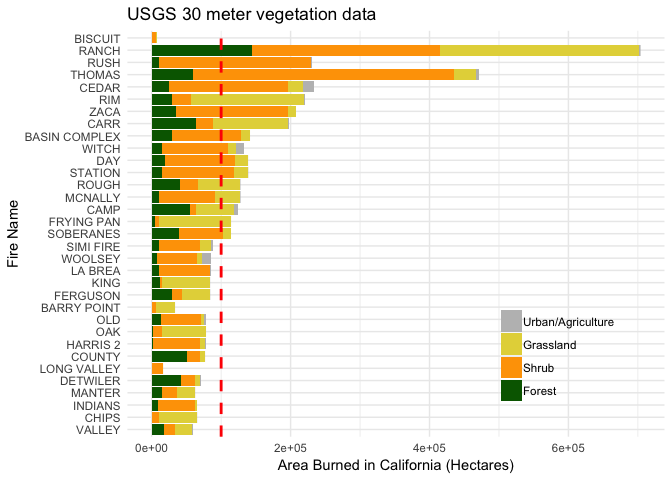
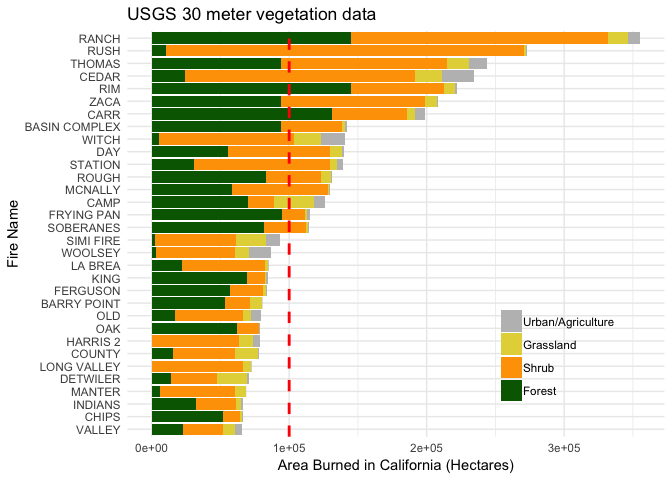
knit changes to legend and font color

diff --git a/analyses/land-cover.md b/analyses/land-cover.md
@@ -20,12 +20,14 @@ library(tidyverse)
 
     ## Warning: package 'tidyverse' was built under R version 3.4.2
 
-    ## ── Attaching packages ─────────────────────────────────────── tidyverse 1.2.1 ──
+    ## ── Attaching packages ────────────────────────────────────────────────────────────────────────────────────────────────────────────────────── tidyverse 1.2.1 ──
 
-    ## ✔ ggplot2 3.1.0.9000     ✔ purrr   0.2.5     
-    ## ✔ tibble  1.4.2          ✔ dplyr   0.7.8     
-    ## ✔ tidyr   0.8.1          ✔ stringr 1.3.1     
-    ## ✔ readr   1.1.1          ✔ forcats 0.2.0
+    ## ✔ ggplot2 3.1.0     ✔ purrr   0.2.5
+    ## ✔ tibble  1.4.2     ✔ dplyr   0.7.8
+    ## ✔ tidyr   0.8.1     ✔ stringr 1.3.1
+    ## ✔ readr   1.1.1     ✔ forcats 0.2.0
+
+    ## Warning: package 'ggplot2' was built under R version 3.4.4
 
     ## Warning: package 'tibble' was built under R version 3.4.3
 
@@ -37,7 +39,7 @@ library(tidyverse)
 
     ## Warning: package 'stringr' was built under R version 3.4.4
 
-    ## ── Conflicts ────────────────────────────────────────── tidyverse_conflicts() ──
+    ## ── Conflicts ───────────────────────────────────────────────────────────────────────────────────────────────────────────────────────── tidyverse_conflicts() ──
     ## ✖ dplyr::filter() masks stats::filter()
     ## ✖ dplyr::lag()    masks stats::lag()
 
@@ -94,7 +96,7 @@ land_fire<- fh %>%
 land_fire
 ```
 
-![](land-cover_files/figure-markdown_github/unnamed-chunk-3-1.png)
+![](land-cover_files/figure-markdown_github-ascii_identifiers/unnamed-chunk-3-1.png)
 
 ``` r
 catagory_fire<- fh %>%
@@ -111,7 +113,7 @@ catagory_fire<- fh %>%
 catagory_fire
 ```
 
-![](land-cover_files/figure-markdown_github/unnamed-chunk-3-2.png)
+![](land-cover_files/figure-markdown_github-ascii_identifiers/unnamed-chunk-3-2.png)
 
 ``` r
 fire_perc<- fh %>%  
@@ -221,7 +223,7 @@ usgs_landcover_fire<- fh %>%
 usgs_landcover_fire
 ```
 
-![](land-cover_files/figure-markdown_github/unnamed-chunk-5-1.png)
+![](land-cover_files/figure-markdown_github-ascii_identifiers/unnamed-chunk-5-1.png)
 
 ``` r
 catagory_fire<- fh %>%
@@ -233,7 +235,7 @@ catagory_fire<- fh %>%
 catagory_fire
 ```
 
-![](land-cover_files/figure-markdown_github/unnamed-chunk-5-2.png)
+![](land-cover_files/figure-markdown_github-ascii_identifiers/unnamed-chunk-5-2.png)
 
 ``` r
 #Remove duplicate THOMAS 2017 fire
@@ -285,7 +287,7 @@ USGS_fires<- fire_perc %>%
 USGS_fires
 ```
 
-![](land-cover_files/figure-markdown_github/unnamed-chunk-5-3.png)
+![](land-cover_files/figure-markdown_github-ascii_identifiers/unnamed-chunk-5-3.png)
 
 ``` r
 #Is the Biscuit Fire here only showing land burned in CA?
@@ -293,13 +295,13 @@ USGS_fires
 USGS_fires
 ```
 
-![](land-cover_files/figure-markdown_github/unnamed-chunk-5-4.png)
+![](land-cover_files/figure-markdown_github-ascii_identifiers/unnamed-chunk-5-4.png)
 
 ``` r
 calveg_fires
 ```
 
-![](land-cover_files/figure-markdown_github/unnamed-chunk-5-5.png)
+![](land-cover_files/figure-markdown_github-ascii_identifiers/unnamed-chunk-5-5.png)
 
 ``` r
 megafire_perc <- fire_perc %>%
@@ -316,7 +318,7 @@ megafires<- ggplot(megafire_perc, aes(x=reorder(FIRE_NAME, GIS_ACRES), y=area, f
 megafires
 ```
 
-![](land-cover_files/figure-markdown_github/unnamed-chunk-6-1.png)
+![](land-cover_files/figure-markdown_github-ascii_identifiers/unnamed-chunk-6-1.png)
 
 ``` r
 fire_final <- fire_perc %>% 
@@ -326,26 +328,27 @@ fire_final <- fire_perc %>%
   mutate(sumarea = sum(GIS_ACRES)) %>% 
   arrange(desc(sumarea))
 
-name_color <- fire_final %>% 
-  select(FIRE_NAME,GIS_ACRES, sumarea) %>% 
-  distinct() 
-name_color <- name_color %>% 
-  mutate(c = ifelse(GIS_ACRES > 100000, "red", "black")) %>% 
-  arrange(sumarea)
-a <- name_color$c
+# name_color <- fire_final %>% 
+#   select(FIRE_NAME,GIS_ACRES, sumarea) %>% 
+#   distinct() 
+# name_color <- name_color %>% 
+#   mutate(c = ifelse(GIS_ACRES > 100000, "red", "black")) %>% 
+#   arrange(sumarea)
+# a <- name_color$c
 
 final_fig<- fire_final %>%
   arrange(desc(sumarea)) %>% 
   arrange(desc(Category)) %>%
   ggplot(aes(x=reorder(FIRE_NAME, sumarea), y=area, fill= Category)) + 
   geom_bar(stat="identity") +
+  guides(fill = guide_legend(reverse = TRUE)) +
   scale_colour_manual(values = cols, aesthetics = c("colour", "fill")) +
-  scale_y_continuous(labels = scales::comma) +
+  scale_y_continuous(labels = scales::comma, expand = c(0, 0)) +
   theme_classic() +
   theme(axis.title=element_text(size=9,face="bold", family = "Helvetica"),
         legend.text = element_text(colour="black", size=8, family = "Helvetica"),
         axis.text.x = element_text(size=9, family = "Helvetica"),
-        axis.text.y = element_text(size=9, family = "Helvetica", colour = a), 
+        axis.text.y = element_text(size=9, family = "Helvetica"), 
         legend.position = "bottom") +
   coord_flip() +
   labs(y = "Acres Burned in California", 
@@ -355,4 +358,10 @@ final_fig<- fire_final %>%
 final_fig 
 ```
 
-![](land-cover_files/figure-markdown_github/unnamed-chunk-7-1.png)
+![](land-cover_files/figure-markdown_github-ascii_identifiers/unnamed-chunk-7-1.png)
+
+``` r
+# mega_text<- textGrob("Megafire\nthreshold", gp=gpar(fontsize=8, fontface="bold"))
+# annotation_custom(mega_text,xmin=100000,xmax=100000,ymin=-0.07,ymax=-0.07) +
+# coord_cartesian(clip = "off")
+```
